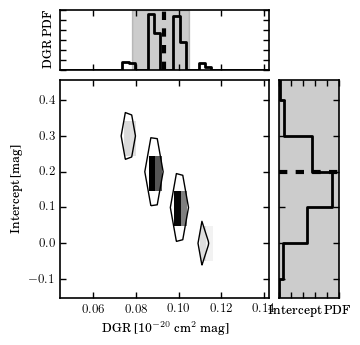
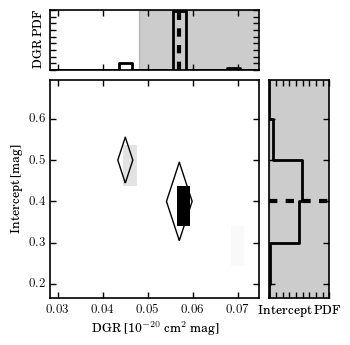
updated post

diff --git a/images/2015-08-11/image_copy.py b/images/2015-08-11/image_copy.py
@@ -8,8 +8,14 @@ images = [
 '/d/bip3/ezbc/taurus/figures/diagnostics/taurus_planck_binned_coarseres_fixedwidth_avthres_hi_spectrum.png',
 '/d/bip3/ezbc/california/figures/diagnostics/california_planck_binned_coarseres_fixedwidth_avthres_hi_spectrum.png',
 
-
 '/d/bip3/ezbc/perseus/figures/likelihood/perseus_lee12_binned_coarseres_fixedwidth_avthres_likelihood_di.png',
+'/d/bip3/ezbc/perseus/figures/diagnostics/perseus_lee12_binned_coarseres_fixedwidth_avthres_av_vs_nhi_masked.png',
+'/d/bip3/ezbc/perseus/figures/diagnostics/perseus_lee12_binned_coarseres_fixedwidth_avthres_nh2_vs_nhi.png',
+'/d/bip3/ezbc/perseus/figures/diagnostics/maps/perseus_lee12_binned_coarseres_fixedwidth_avthres_mask_map.png',
+'/d/bip3/ezbc/perseus/figures/likelihood/perseus_lee12_binned_coarseres_fixedwidth_likelihood_di.png',
+'/d/bip3/ezbc/perseus/figures/diagnostics/perseus_lee12_binned_coarseres_fixedwidth_av_vs_nhi_masked.png',
+'/d/bip3/ezbc/perseus/figures/diagnostics/perseus_lee12_binned_coarseres_fixedwidth_nh2_vs_nhi.png',
+'/d/bip3/ezbc/perseus/figures/diagnostics/maps/perseus_lee12_binned_coarseres_fixedwidth_mask_map.png',
 
         ]
 

diff --git a/_posts/2015-08-11-research-fixed-hi-widths.md b/_posts/2015-08-11-research-fixed-hi-widths.md
@@ -66,25 +66,136 @@ in Imara et al. (2012).
 
 ***
 
+### Lee+12 IRIS $$A_V$$, threshold masking
 
-### Lee+12 comparison
+We compare Lee+12 DGR by masking at an $$A_V$$ threhsold of 1.2 mag and perform
+the MLE calculation.
 
-With an HI width similar to that of Lee et al. (2012), around 20 km/s for each
-cloud, we now get much more reasonable likelihood values.
+Masking:
+
+***
+
+Perseus
+
+  <img src="/images/2015-08-11/perseus_lee12_binned_coarseres_fixedwidth_avthres_mask_map.png"
+      style="width: 100%">
+
+
+#### Figure 3
+
+Top: Original resolution masked $$A_V$$ map overlaid with mask contour, bottom:
+binned image, with pixels used to calculate the DGR and intercept in color, and
+masked pixels in gray.
+
+***
+
+The likelihoods are quite different from Lee et al. (2012) given an HI width of
+20 km/s.
 
 ***
 
 <img src='/images/2015-08-11/perseus_lee12_binned_coarseres_fixedwidth_avthres_likelihood_di.png' style='width:50%'>
 
-
 #### Figure 2
+
+Likelihoods using the Lee+12 IRIS $$A_V$$ data, and masking at $$A_V$$ of 1.2
+mag. 
 
 ***
 
+We should make sure the pixels used in the MLE calculation have reasonable
+errors and follow a linear trend. In [previous
+posts](/2015/08/07/research-threshold-and-intercepts-lee12data/#figure-5) I was
+incorrectly displaying the errors in this plot. This is because when binning, I
+was not accounting for the standard deviation about the mean of the bin. I was
+only considering the binned errors as the unbinned errors added in quadrature.
+Now the binned errors are calculated as follows
+
+$$\begin{equation}
+
+    Var(binned) = Var(unbinned) + \sum Var(unbinned\ errors)
+
+\end{equation}$$
+
+where Var() is the variance.
+
+The threshold-masking approach leaves quite a large scatter in the pixels used
+to fit $$A_V$$ vs. N(HI).
+
+***
+
+<img
+src="/images/2015-08-11/perseus_lee12_binned_coarseres_fixedwidth_avthres_av_vs_nhi_masked.png"
+    style="float: left; width: 50%"/>
+<img
+src="/images/2015-08-11/perseus_lee12_binned_coarseres_fixedwidth_avthres_nh2_vs_nhi.png"
+    style="width: 50%"/>
+
+#### Figure 6
+
+Left: masked $$A_V$$ vs. N(HI), right: N(H$$_2$$) vs. N(HI) for Perseus region.
+
+***
+
+### Lee+12 IRIS $$A_V$$, residual masking
+
+We compare Lee+12 DGR by masking with the [residual
+masking](/2015/07/28/research-regions/#masking) technique and perform the MLE
+calculation. We find that the residual masking is necessary, as opposed to the
+threshold masking to reproduce the work done by Lee et al. (2012).
+
+Masking:
+
+***
+
+Perseus
+
+  <img src="/images/2015-08-11/perseus_lee12_binned_coarseres_fixedwidth_mask_map.png"
+      style="width: 100%">
 
 
+#### Figure 3
 
+Top: Original resolution masked $$A_V$$ map overlaid with mask contour, bottom:
+binned image, with pixels used to calculate the DGR and intercept in color, and
+masked pixels in gray.
 
+***
 
+The likelihoods show a DGR very similar to that of Lee et al. (2012).
 
+***
+
+<img src='/images/2015-08-11/perseus_lee12_binned_coarseres_fixedwidth_likelihood_di.png' style='width:50%'>
+
+#### Figure 2
+
+Likelihoods using the Lee+12 IRIS $$A_V$$ data, and masking with residuals.
+
+***
+
+We should make sure the pixels used in the MLE calculation have reasonable
+errors and follow a linear trend.
+
+The residual-masking approach reduces the scatter in the pixels used to fit
+$$A_V$$ vs. N(HI).
+
+***
+
+<img
+src="/images/2015-08-11/perseus_lee12_binned_coarseres_fixedwidth_av_vs_nhi_masked.png"
+    style="float: left; width: 50%"/>
+
+<img
+src="/images/2015-08-11/perseus_lee12_binned_coarseres_fixedwidth_nh2_vs_nhi.png"
+    style="width: 50%"/>
+
+#### Figure 6
+
+Left: masked $$A_V$$ vs. N(HI), right: N(H$$_2$$) vs. N(HI) for Perseus region.
+
+***
+
+With an HI width similar to that of Lee et al. (2012), around 20 km/s for each
+cloud, we now get much more reasonable likelihood values.
 
